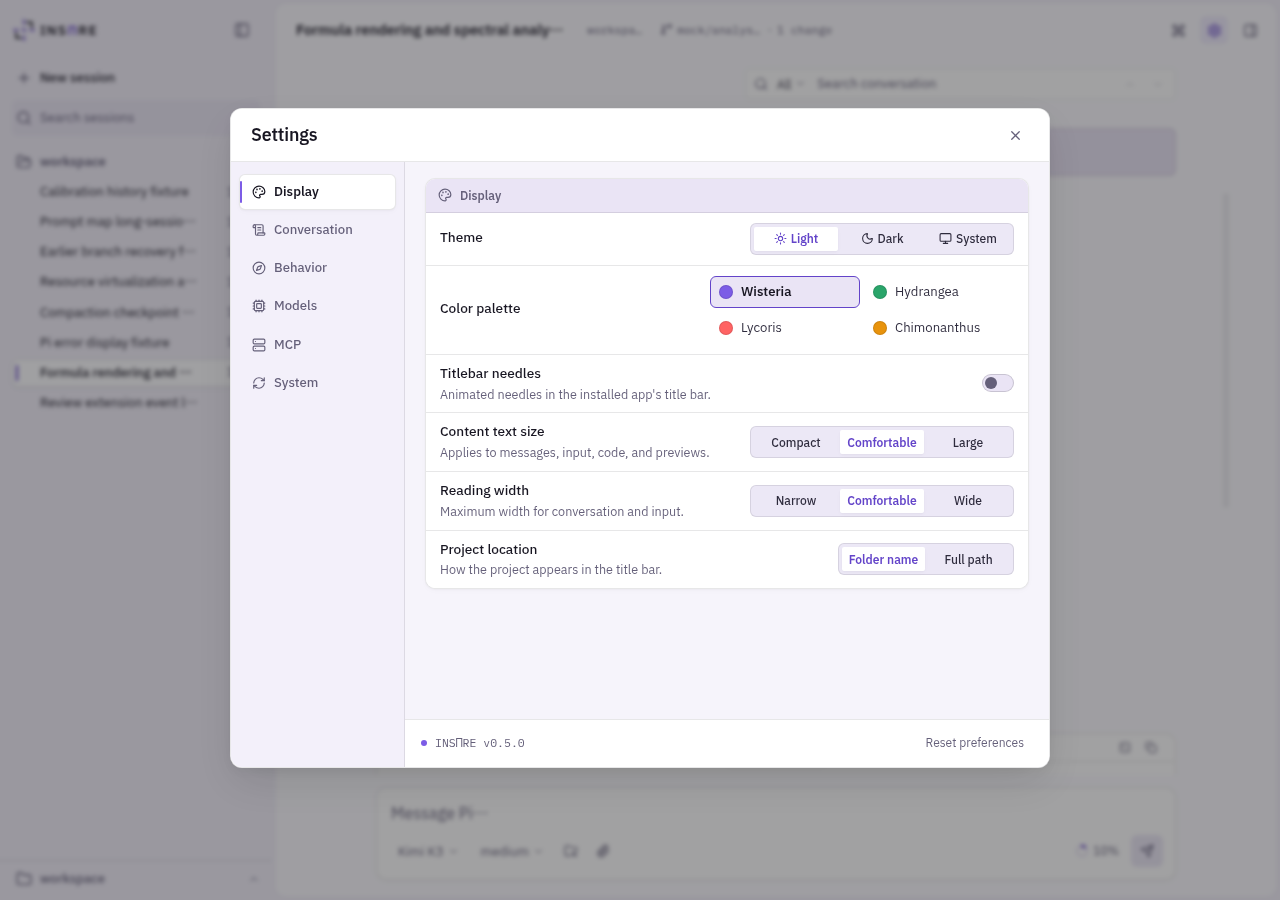
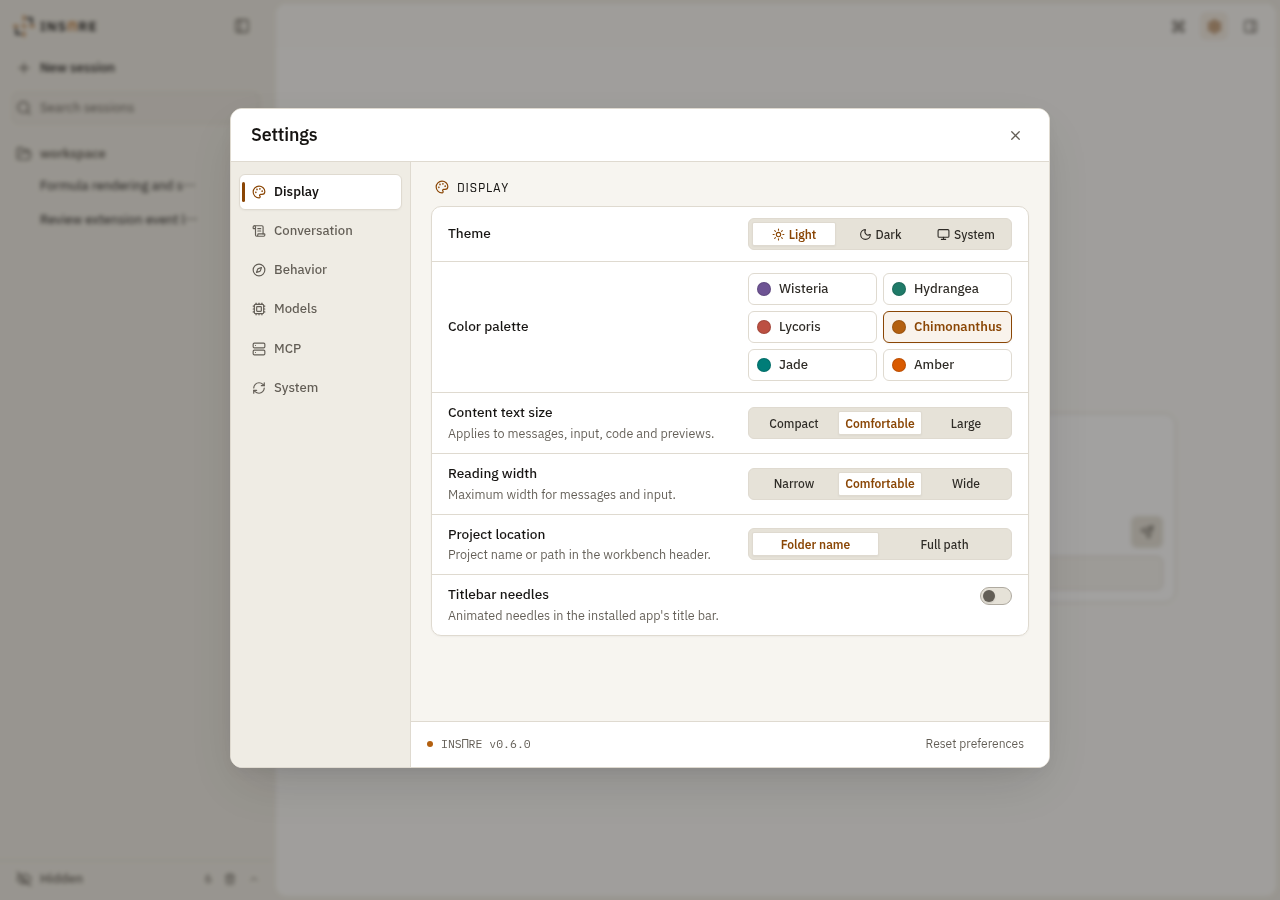
chore(release): prepare 0.6.0 documentation and screenshots
Prepare version metadata, release notes and screenshots, and consolidate the development and release verification records for native continuity and terminal recovery.

diff --git a/docdoki/stages/follow-project-quality-2026-10-21.md b/docdoki/stages/follow-project-quality-2026-10-21.md
@@ -1,0 +1,136 @@
+---
+scope:
+  - server/**
+  - shared/**
+  - src/**
+  - connections/**
+  - tests/**
+  - docdoki/**
+---
+
+# Project quality review
+
+## Objective
+
+Review high-value workflows across the project against [[northstar]], preserving the user's native
+Pi settings, sessions and extensions. Fix demonstrated problems with clear repair directions,
+retain useful regressions, and ask before changing product semantics or adding capabilities.
+Continue until no demonstrated major correctness, reliability or performance problem remains worth
+addressing; do not expand into cosmetic changes or classify an isolated flake as a product defect.
+
+## Current state
+
+- Resource preview observations now share the bounded transfer/cancellation boundary with uploads
+  (`f1c9169`). Loaded Pi command names, including Unicode and punctuation, remain executable through
+  preparation and normalized delivery (`1ff7a1e`). Their new tests pass in the Linux, macOS and
+  Windows jobs of [CI run 39532239217](https://github.com/XWIlluDelu/pi-inspire/actions/runs/39532239217).
+- That run still fails on older platform assumptions and browser fixtures also present at
+  `0740654`. SSH CLI entry detection now follows filesystem aliases. Native RPC presence/rebind
+  runs portably, with Linux Herdr ownership as an additional scenario rather than a prerequisite.
+- Browser fixtures now route the native `model-cycle` action, recognize addressed unchanged
+  snapshot confirmations, and identify an explicit Stop refusal with its failed Host receipt.
+  A bare server failure represents uncertainty and cannot stand in for that terminal refusal.
+- Local targeted checks pass: 16 SSH/native lifecycle cases, Chromium/Firefox model and layout
+  cases, Stop presentation/receipt cases, types, formatting and lint. Local WebKit cannot start
+  because a system library is missing; updated CI must supply its cross-engine/platform evidence.
+- No Pi runtime source or native cancellation behavior changes belong to these repairs. The
+  initial review retained existing bounded/incremental read paths rather than adding another cache
+  without evidence of material cost. [[performance]] owns the maintained measurement procedures.
+
+## Current review evidence
+
+- Session switching and recovery: addressed writes, latest-selection ownership, unavailable-workspace
+  history, restored-workspace admission and confirmed worker retirement pass the targeted Runtime
+  and browser-store checks. No new major defect was demonstrated in these paths.
+- Native execution: isolated real-Pi checks confirm receipt reobservation does not execute a shell
+  twice, shell Stop uses `abort_bash`, hook dialogs remain answerable, and unexpected worker exit
+  retains an unknown outcome without fabricated terminal metadata. These test the existing owned-RPC
+  contract; they do not add shell control to native TUI connections.
+- Real Herdr/browser continuity passes with a disposable native Pi: prompt and follow-up, page reload,
+  isolated Host replacement without page refresh, retained browser draft, stable transcript view,
+  resumed input and agent Stop all preserve the original Pi process. The browser fixture now gives
+  its Host the same isolated report cache as Pi, matching the native Runtime fixture; a wrong test
+  cache previously produced the correct missing-receiver refusal instead of exercising control.
+- Transport/history/resources: addressed snapshot barriers, heartbeat/backlog bounds, retained-content
+  search/cancellation, incremental catalog summaries, byte ranges and disconnect-time file release
+  pass their focused suites. Existing projection measurements and bounded/incremental paths do not
+  justify another cache. Public DNS/TLS/proxy latency is not measured by these loopback fixtures.
+- CI run 39537796587: macOS passes all phases, including native WebKit; Windows passes Chromium,
+  Trash/recovery and launcher checks. Its sole unit failure is the installed SSH runner silently
+  skipping `init` through a directory junction. Entry detection now uses Node's `import.meta.main`
+  (available before the supported Node 22.19 baseline); both real CLI assertions remain unchanged,
+  and the targeted SSH package/lifecycle suites pass locally. Windows Chromium's one successful
+  layout retry is a separate flake, not evidence of a major product defect. Linux unit/integration
+  and launcher checks pass; its 426-case, single-worker browser run was still progressing when the
+  35-minute aggregate job ceiling cancelled it, with no failed-test artifacts. The Linux budget
+  now allows 50 minutes for build, core and three browser engines; individual deadlines, assertions
+  and scenario coverage are unchanged.
+- [CI run 39541401547](https://github.com/XWIlluDelu/pi-inspire/actions/runs/39541401547) confirms
+  Windows direct/junction CLI startup, all three packaged releases, complete Linux quality and
+  macOS native/browser checks, and Windows Chromium. Its only failure is the unchanged terminal
+  history slow-storage fixture exceeding five seconds on Windows (previously passing there).
+  A local phase probe attributes about 720 ms to generic deep equality of the 768 KiB Buffer,
+  versus about 0.6 ms for flush/read. The fixture now uses native complete-byte equality and advances
+  gated chunk-arrival timers synchronously. Real filesystem writes, every byte/batch assertion and
+  the five-second deadline remain. Clock simplification alone was not the dominant cost repair.
+  The complete history-store suite passes locally; no terminal-runtime change is indicated.
+  [CI run 39545599095](https://github.com/XWIlluDelu/pi-inspire/actions/runs/39545599095) confirms
+  the corrected Windows history fixture, all Windows/macOS phases, three packaged releases and
+  size report. Its sole failure is Linux WebKit's notebook execution-count baseline measurement
+  (7.75 px on both attempts); expected 503 fixtures are not additional failures.
+- Reader baseline sampling compared viewport coordinates from separate evaluations. A controlled
+  8 px preview scroll demonstrates the measurement defect: the old assertion reports 8 px while
+  the prompt and source remain aligned relative to their output row. Both samples now use the
+  existing row-relative helper, with that scroll retained as a deterministic regression. All five
+  reader-baseline cases pass across Chromium, Firefox and WebKit in an isolated matching Playwright
+  container, without retries or host-library installation; all gutter/overflow assertions and the
+  1 px threshold remain. The original CI's precise 7.75 px movement was not reproduced, so its
+  dynamic cause is not claimed. No product CSS or component change is indicated by these results.
+
+- [CI run 39552440372](https://github.com/XWIlluDelu/pi-inspire/actions/runs/39552440372) confirms
+  complete Linux quality, including the reader repair, all macOS phases, Windows Chromium and
+  three packaged releases. Its sole failure is the Windows New-session settings ownership test's
+  wait for Settings navigation; no product-open failure has been demonstrated. Delaying the real
+  Settings module import reproduces that exact failure. The workspace-ownership case now preloads
+  the actual surface before opening it, preserving Models/MCP interactions and directory assertions
+  without increasing timeouts. The temporary delay is removed; all 22 cases in the file pass.
+- The terminal follow-up finds three concrete lifecycle gaps: a startup connection failure was
+  frozen for the Host lifetime; service start/enable silently stopped a transient owner; and a
+  confirmed duplicate listener exited like a recoverable crash, allowing endless systemd retries.
+  Recovery now shares demand-driven, connection-only initialization, fences close/late results and
+  never replays input or dispatched controls. Service startup preserves existing work; duplicate
+  ownership has exit 78 and a no-retry unit policy without suppressing ordinary crash recovery.
+- Terminal errors now reuse the shared notice card with complete Copy and explicit Dismiss.
+  Diagnostics distinguish absent endpoints, unverified data and unavailable maintenance; missing
+  optional lifecycle support does not block compatible data. Mutual authentication and the wire
+  protocol remain required; legacy plaintext fallback is not introduced.
+- Focused native/service/UI checks pass, including a real TLS endpoint recovering after initial
+  failure, initialization concurrency, close races, no idle retries, no input replay, duplicate-owner
+  process exit, non-destructive service controls and installed CLI delegation. Browser Copy,
+  layout boundaries and light/dark desktop/390px QA pass. Isolated installed-package verification
+  passes with a live daemon PTY surviving Host restart and scoped maintenance. No production service
+  or existing terminal process was operated on.
+
+## Next actions
+
+- [ ] Confirm final CI for the terminal fixes and Windows Settings fixture correction. The parent
+  observes GitHub; no long-running local watch is needed.
+- [x] Complete the requested terminal design review and focused repairs without broadening into a
+  negotiation framework. Public network latency and arbitrary extensions remain outside these checks.
+- [ ] Continue [[follow-release-0-6-0-2026-10-21]] after the source boundary is fixed. Production
+  activation is distinct from source/build verification; no Host restart or terminal migration was
+  performed, and an upgrade that ends existing PTYs still requires operator approval.
+
+## Decisions
+
+- Pi owns model-cycle order and extension effects. The shortcut fixture grants both directions to
+  test key delivery; this does not claim that the installed Pi RPC supports reverse cycling.
+- Snapshot synchronization can confirm an unchanged digest without repeating snapshot data. A
+  fixture needing the selected subscription must check its addressed owner rather than require data.
+- Independent RPC presence is portable; Linux process-group identity is a Herdr-specific boundary.
+
+## Handoff
+
+Read [[northstar]], [[spec_abstract]] and the relevant contracts before continuing from Next actions.
+Use the current tree and CI results, not the old failed run, as the next review baseline. Do not
+repeat whole suites merely to increase coverage counts, or turn a test fixture into a second runtime.

diff --git a/docdoki/stages/follow-release-0-6-0-2026-10-21.md b/docdoki/stages/follow-release-0-6-0-2026-10-21.md
@@ -1,0 +1,72 @@
+---
+scope:
+  - README.md
+  - CHANGELOG.md
+  - package.json
+  - package-lock.json
+  - docs/**
+---
+
+# Prepare 0.6.0
+
+## Objective
+
+Prepare an accurate 0.6.0 candidate, user documentation and real application screenshots.
+This stage does not authorize a tag, npm publication or GitHub release.
+
+## Current state
+
+- The existing release baseline is annotated tag `v0.5.5`. The documented distribution path is
+  `release:verify` → `npm pack` → tarball installation; there is no release workflow to replace.
+  The public npm registry currently returns 404 for `inspire-pi-gui`.
+- Merge `0ed3d6c` preserves the published quality line and the completed PWA/workbench refinements
+  without rewriting either history. Candidate scope is fixed; package.json, both root lockfile
+  versions and the documented tarball name now use 0.6.0. CHANGELOG.md is included in the package.
+- README already describes most current capabilities. Targeted documentation now corrects the
+  System → Host restart location, stopped/failed replies, terminal preference scope and
+  non-destructive connection recovery. Existing protocol-upgrade, Trash recovery and attachment
+  migration instructions remain relevant.
+- [[follow-project-quality-2026-10-21]] records CI and the terminal recovery/lifecycle corrections.
+  The reviewed range since v0.5.5 includes portable Host lifecycle, authenticated terminal IPC,
+  native Trash/attachment continuity, external-writer fencing, Pending recovery and responsive
+  reading/input behavior. Release notes must distinguish strengthened behavior from capabilities
+  already present in 0.5.5.
+- All eight README images are replaced from one isolated production client build of the current
+  0.6.0 source. Settings shows its real 0.6.0 footer and current control text. Each image was checked
+  for pixel composition, readable text, loaded assets and private data. Mobile uses a touch/coarse
+  pointer context and a 390×844 CSS-pixel capture. No generated UI or edited version label is used.
+  The production Host and its existing dist/build marker are not used or changed for photography.
+- Combined UI/icon/package-manifest targets pass (115 cases); five selected browser cases pass
+  without retries for update states, code focus/copy, command preparation, MCP saving and terminal
+  errors. Earlier terminal/Settings checks overlap this evidence and are not added to its count.
+- Exact candidate `914c24d` passes isolated installed-package verification at 0.6.0. The public
+  tarball includes the changelog, eight new screenshots, licenses and production runtime, not tests
+  or source-only modules. Its temporary source snapshot and processes are removed.
+- Run 39561923512 exposes sixteen stale terminal-notice checks: four compare the entire new card
+  with body text and click its old whole-button target; twelve color probes still build the old
+  error button. Updated checks preserve exact body text, independent dismissal, viewport containment
+  and 4.5:1 text contrast, and assert shared title/body/icon/border roles. All sixteen pass locally
+  without retries. Only non-shipped tests and this stage change after 914c24d; the UI, package inputs
+  and verified screenshots are unchanged. The argument-menu retry is retained as a separate flaky.
+- Run 39568826267 confirms a stale MCP Save label on all platforms and a non-atomic test probe on
+  Linux. The probe now publishes by same-directory rename, each agent read uses one snapshot, and
+  readiness waits for both state and PTY output within the existing deadlines. Both affected test
+  files pass all 23 cases; cwd, project scope, revision and save payload assertions remain intact.
+- Windows additionally exposes native CRLF in the terminal-error clipboard test. Both failed traces
+  record the complete message with CRLF, not lost content. The assertion now normalizes only CRLF,
+  retaining complete text/whitespace equality like the existing assistant-error copy test. Its
+  isolated Chromium regression passes. Product code and the eight verified screenshots are unchanged.
+
+## Release gates and next actions
+
+- [x] Fix the candidate source boundary and synchronize package.json, both root lockfile version
+  entries and the documented tarball name. A local candidate build is not the running Host version.
+- [ ] Confirm final-source CI and three-platform installed-package checks after the test-fixture
+  corrections. Run 39568826267 passes all three package checks but exposes the unit/clipboard
+  issues below; it is not a release-ready result. No release or tag is authorized before the gates close.
+- [x] Prepare a concise changelog from the integrated v0.5.5..candidate diff, retaining upgrade
+  requirements and actual capability limits. The existing tarball workflow is unchanged.
+- [x] Build the candidate and capture the existing eight filenames with a real isolated application
+  and synthetic content, including the 390px mobile image. Inspect pixels, text, version and privacy.
+- [ ] Obtain the separate release/tag go-ahead after these gates. Production Host restart remains an
+  operator action; terminal migration that ends PTYs requires explicit approval.

diff --git a/docdoki/stages/follow-session-execution-2026-10-19.md b/docdoki/stages/follow-session-execution-2026-10-19.md
@@ -29,6 +29,8 @@ interfaces and process evidence, not a particular external host's control API.
   evidence, unavailable-owner fence, cold settings admission and shutdown detach/drain are retained.
 - The optional single-file Pi reporter covers TUI/RPC/JSON/print. It reports process-bound session
   presence separately from busy/input activity, and excludes the loaded Inspire-owned RPC bridge.
+  In Herdr TUI only, the same installed entry also receives scope-bound native action frames through
+  existing Herdr control; observation outside that connection remains read-only.
 - A native session with no supported control connection is checked against reported presence
   inside cold writer admission and again after asynchronous pre-start preparation. A live external
   holder produces an `external-active` read-only view, not a new worker or an external control route.
@@ -44,12 +46,33 @@ interfaces and process evidence, not a particular external host's control API.
   prevents shutdown during startup I/O from rearming a timer. SDK quit/dispose while its process
   lives has no reporter-visible persistence-drain completion signal and stays conservatively held.
 
+## Delivery state
+
+The native-action implementation is complete and verified on the isolated `review-native-actions`
+branch. Main integration, push and installation are paused pending explicit publication approval;
+this is a delivery boundary, not an implementation defect. Host restart remains operator-owned.
+
 ## Verification
+
+- `herdr-native-actions.integration.test.ts` uses real offline Pi TUI/PTY with non-default Follow-up
+  and Interrupt keys: native queueing, agent abort/queue restoration, below-editor widget/draft
+  admission, a real dialog, extension command/template dispatch, handled input without a model turn,
+  receiver retirement on reload, stale session rejection and original-terminal continuation. A gated
+  native shell demonstrates why agent Stop cannot claim Bash cancellation. The independent real
+  Herdr continuity case retains the same Pi across Host detach/reconnect with isolated user state.
+- Transport tests require one exact process/session/receiver, reject mismatched or unavailable
+  capability, preserve Stop ownership, distinguish invocation from rejection/unknown outcomes and
+  never repeat a possibly delivered action. Prompt blocked admission is production code, not supplied
+  by its test double.
 
 - An isolated real RPC Pi is observed idle, working and settled while Runtime opens its session
   read-only and never constructs a replacement worker. Native resource reload keeps one report
   and the same PID. A later real shutdown hook is gated before appending its final custom entry:
   admission stays fenced during that hook, and only subsequent native startup releases the old file.
+  The replacement check also holds an established Herdr-native connection: early destination
+  metadata leaves it unavailable, completed reporter rebinding retires it, and ordinary occupancy
+  admission then allows the old session. `pi-session-occupancy-native.integration.test.ts` uses a
+  real independent Pi and reporter with a control-client double, not production sessions.
 - The SDK disposal regression was observed failing before the fix. The real SDK disposal method,
   with a controlled later hook and busy session double, now keeps admission blocked both before
   disposal and afterward while the process is alive. Activity stop hints never authorize a writer.
@@ -60,6 +83,9 @@ interfaces and process evidence, not a particular external host's control API.
   Serialized observation/commit now preserves the newer holder across that sequence.
 - Presence regressions cover stale/legacy reports, deletion/corruption, Host reconstruction,
   completed rebind, current/legacy stop hints, PID retirement/reuse, path identity, and metadata/directory failure.
+  A verified control-connection rebind commits its new retained binding before retirement; losing
+  the report and reconstructing the Host cannot restore the old binding. A separate holder still
+  blocks admission after that connection retires.
 - Runtime regressions cover cold settings admission, a second pre-start check, release/reselection,
   and preserving existing Herdr control. UI checks retain history and inspection while withholding
   execution controls, with recovery on explicit reselect.

diff --git a/CHANGELOG.md b/CHANGELOG.md
@@ -1,0 +1,58 @@
+# Changelog
+
+## 0.6.0 — Unreleased
+
+Changes since [v0.5.5](https://github.com/XWIlluDelu/pi-inspire/tree/v0.5.5).
+
+### Workbench
+
+- Responsive conversation, History, Files and Settings layouts, with clearer reading feedback,
+  consistent text baselines, contained long content and keyboard/touch navigation.
+- Updated six-color PWA icons. Stateful actions keep their own labels steady without making
+  unrelated buttons equally wide; configuration and command labels are shorter.
+- Clearer **Stopped** versus **Pi error** results. Terminal errors use the shared error card
+  with Copy and a separate Dismiss action.
+- Pending-input recovery preserves images and newer draft edits. Clipboard handling retains
+  browser activation and supports recovery after interrupted copies.
+
+### Sessions and native Pi
+
+- Stronger external-writer fencing and verified connection retirement preserve native Pi
+  continuity without starting a second writer. With optional Herdr enhancement, supported
+  actions run in the connected native Pi instead of a replacement process.
+- Model cycling delegates to the native worker. Registered command invocation names and
+  native branch-navigation callbacks retain their original meaning.
+- Snapshot refreshes coalesce redundant work and confirm the active session's detail before
+  reusing it. Prompt Map scope survives outline recovery.
+
+### Host, terminals and files
+
+- Authenticated development startup and portable Host lifecycle controls verify the intended
+  instance. Packaged CLI and terminal workflows are validated on Linux, macOS and Windows.
+- Terminal IPC uses authenticated TLS and scoped maintenance controls. Shell startup,
+  alternate-character input and selection/clipboard behavior retain native keyboard semantics;
+  macOS **Option as Meta** remains opt-in.
+- A failed startup connection can recover on a later terminal request without restarting the
+  Host. Recovery neither replaces a daemon nor replays input or dispatched mutations. Compatible
+  data remains available when optional maintenance controls are absent.
+- Linux service start/enable leaves an existing transient daemon and its work alone. A confirmed
+  duplicate listener stops the new unit's crash loop instead of repeatedly attempting takeover.
+- Native Trash recovery and attachment-directory/volume checks preserve recovery ownership.
+  Attachments retain their file context across recalled input and user turns.
+- Scoped file and Git inspection keeps late edits visible beyond bounded source context.
+  Preview-transfer observations remain bounded. Reverse-SSH lifecycle changes are serialized,
+  and CLI startup recognizes Windows directory aliases.
+
+### Upgrade notes
+
+- Node.js **22.19 or newer** is required. Pi remains an external installation; this release is
+  validated against Pi **1.3.0**, not a bundled agent runtime.
+- Compatible terminal daemons survive a Host-only restart. An older daemon that cannot provide
+  the authenticated channel needs a one-time terminal-service upgrade after its work is saved
+  or completed. Replacing it ends its live PTYs; inspect the exact owner first. **Restart all**
+  is not a migration shortcut for an independent transient service.
+- Browser terminal appearance/interaction preferences are local to that browser and origin.
+  Saved-output retention belongs to the connected terminal service.
+- Distribution continues through the verified tarball workflow in
+  [Host operations](docs/host.md#build-and-install-a-package). No new npm publication channel
+  is introduced.

diff --git a/docdoki/stages/pi-capability-gaps.md b/docdoki/stages/pi-capability-gaps.md
@@ -20,6 +20,8 @@ The gaps below remain in the inspected Pi 1.3.0 public RPC and extension interfa
 
 | Requirement | Missing interface |
 | --- | --- |
+| Cycle the owning RPC worker backward with native scope/default/event ordering | SDK `AgentSession.cycleModel(direction)` exists, but RPC invokes it without a direction. The GUI bridge receives only public extension/command contexts, neither of which exposes cycleModel or the owning AgentSession; `ExtensionAPI.setModel/setThinkingLevel` do not reproduce that event. Previous-model palette/keyboard actions report unsupported; the model picker and forward native cycle remain usable. |
+| Interrupt a native TUI user Bash command from Inspire | Public extension `ctx.abort()` requests agent interruption, not `AgentSession.abortBash()`. TUI Escape separately checks shell execution; no callable extension action or shell-running state is exposed. Sending Escape is not a keybinding-independent public action. Stop declares agent-only scope; use the original terminal for shell interruption. |
 | Report whether a worker-owned settings change reached disk | An attributable persistence result covering both load and write failures. RPC and ExtensionAPI do not expose the worker's settings manager. SDK `flush()` can resolve with drainable errors, while a malformed-at-start file can block writes without a new error. Effective-value rereads do not establish persistence. |
 | Explain omitted invalid skills | Current-worker resource identity and omission reason. SDK loader diagnostics belong to that loader; the RPC worker does not expose them. The existing project-trust notice is only a trust restriction notice. |
 | Dismiss a particular extension-cancelled dialog | A request-ID-bearing cancellation/resolution event. Aggregate `ui_prompt_start/end`, titles and model idleness cannot identify one of several concurrent prompts. Timeout and Host Stop cleanup already work. |

diff --git a/docdoki/spec_abstract.md b/docdoki/spec_abstract.md
@@ -33,6 +33,9 @@ and untracked.
 
 | State | Work |
 | --- | --- |
+| In progress | Whole-project quality and terminal recovery/lifecycle closure. [[follow-project-quality-2026-10-21]] records fixes and verification; [[follow-release-0-6-0-2026-10-21]] tracks the candidate, documentation, screenshots and release gates. |
+| Implemented | Bounded Git source projection keeps edits reachable beyond long unchanged prefixes, with independent syntax context and explicit context limits. [[workspace-layout]] records the contract and real-Git/Host regression. |
+| Implemented | Run-scoped reclaimable Pending handoffs with Host-held image transfer that preserves later draft actions, project-bound terminal intent, verified native-connection rebind retirement, run-level cancellation, scope-bound digest confirmation and view-bound Prompt Map navigation. Contracts and regression evidence are in [[composer]], [[terminal]], [[herdr-enhancement]], [[conversation]] and [[session-transport]]. |
 | Implemented | Native Herdr continuity and process-bound external-session presence fencing, with independent busy/input activity reporting. [[follow-session-execution-2026-10-19]] records verification and the separate Host/Pi activation boundary. |
 | Implemented | Ready-owned development pairing, native terminal clipboard/interrupt modifiers and focus entry/exit through existing controls. [[platform-compatibility#Development launch and terminal input]] records native startup and browser coverage. |
 | Implemented | Scoped read-only Git, distinct native/URL file identity, native terminal alternate-character input, current-runtime shell/filesystem support, per-instance lifecycle controls, local peer authentication and one-use launch links. Windows/macOS/Linux evidence and capability limits are in [[platform-compatibility]]. |

diff --git a/README.md b/README.md
@@ -90,7 +90,7 @@ Inspire targets the latest Pi release; `package.json` records the version used b
 
 The usual launcher commands then manage that installation's services. Host-only restart preserves terminal tabs; `restart --all` also restarts the terminal service and ends its processes. **Settings → System → Host → Restart** provides the same scopes and asks for confirmation before interrupting Pi work.
 
-See [Running and maintaining Inspire](docs/host.md) for service behavior, shell environments, packaging, and diagnostics.
+See [Running and maintaining Inspire](docs/host.md) for service behavior, shell environments, packaging, and diagnostics, and the [0.6.0 changelog](CHANGELOG.md) for changes and upgrade notes.
 
 ## Pi commands and customization
 

diff --git a/docs/host.md b/docs/host.md
@@ -307,7 +307,7 @@ Inspire packages the browser client and compiled Node Host as a standalone npm C
 npm ci
 npm run release:verify
 npm pack
-npm install --global ./inspire-pi-gui-0.5.5.tgz
+npm install --global ./inspire-pi-gui-0.6.0.tgz
 inspire
 ```
 
